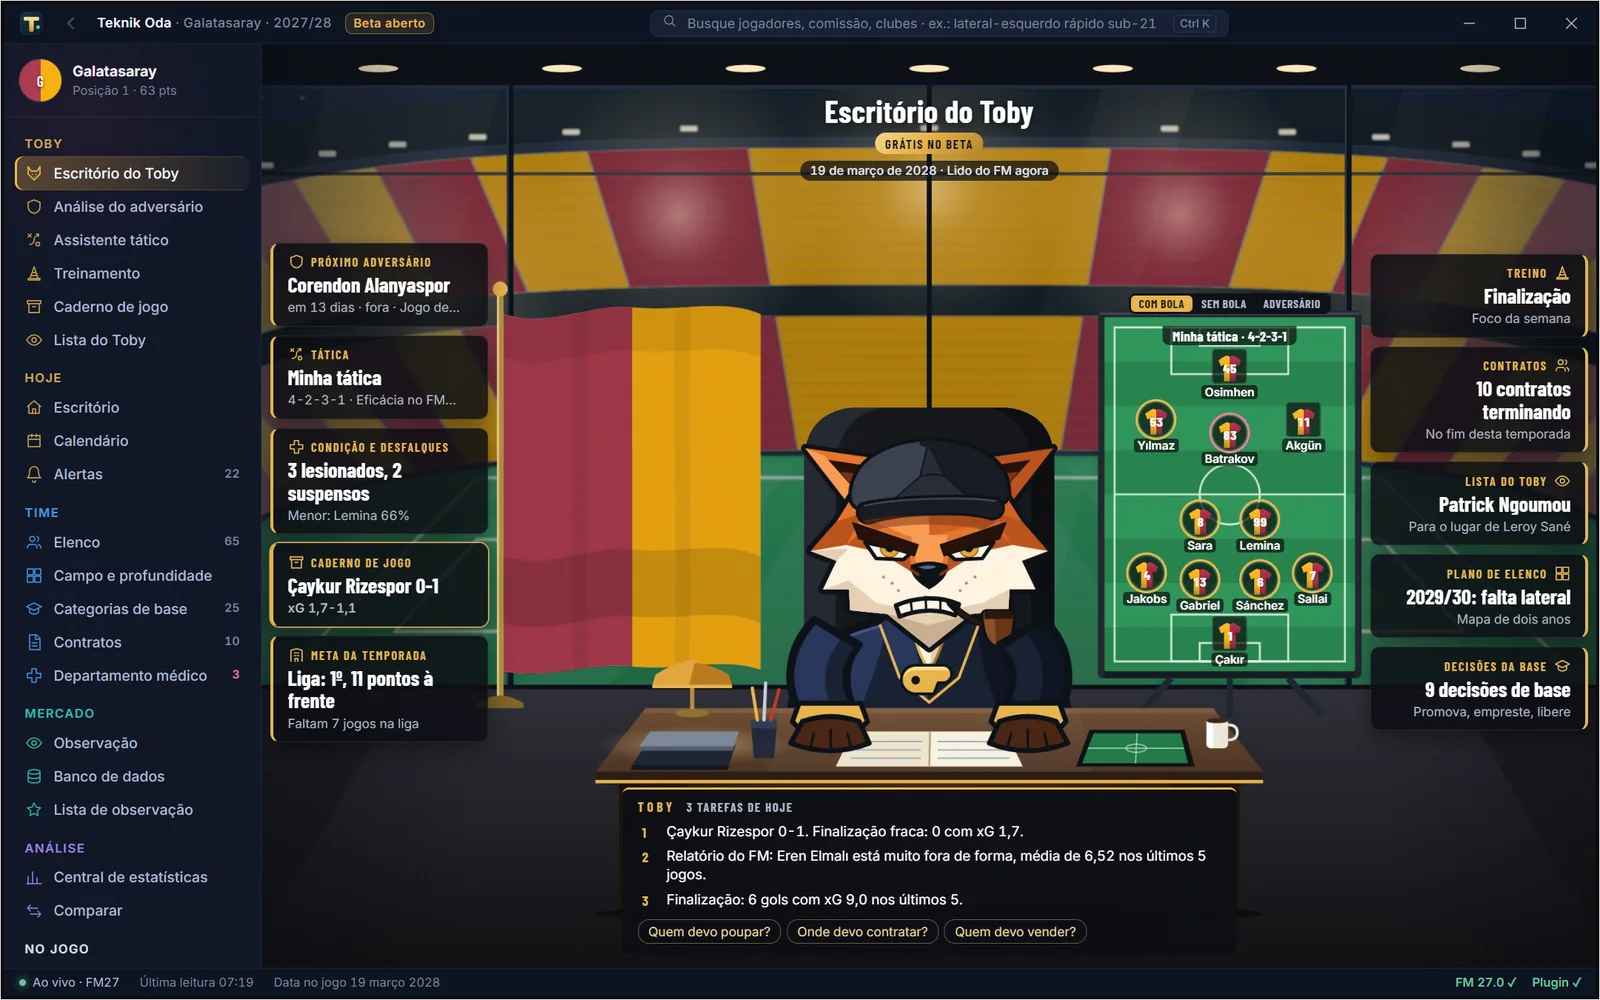
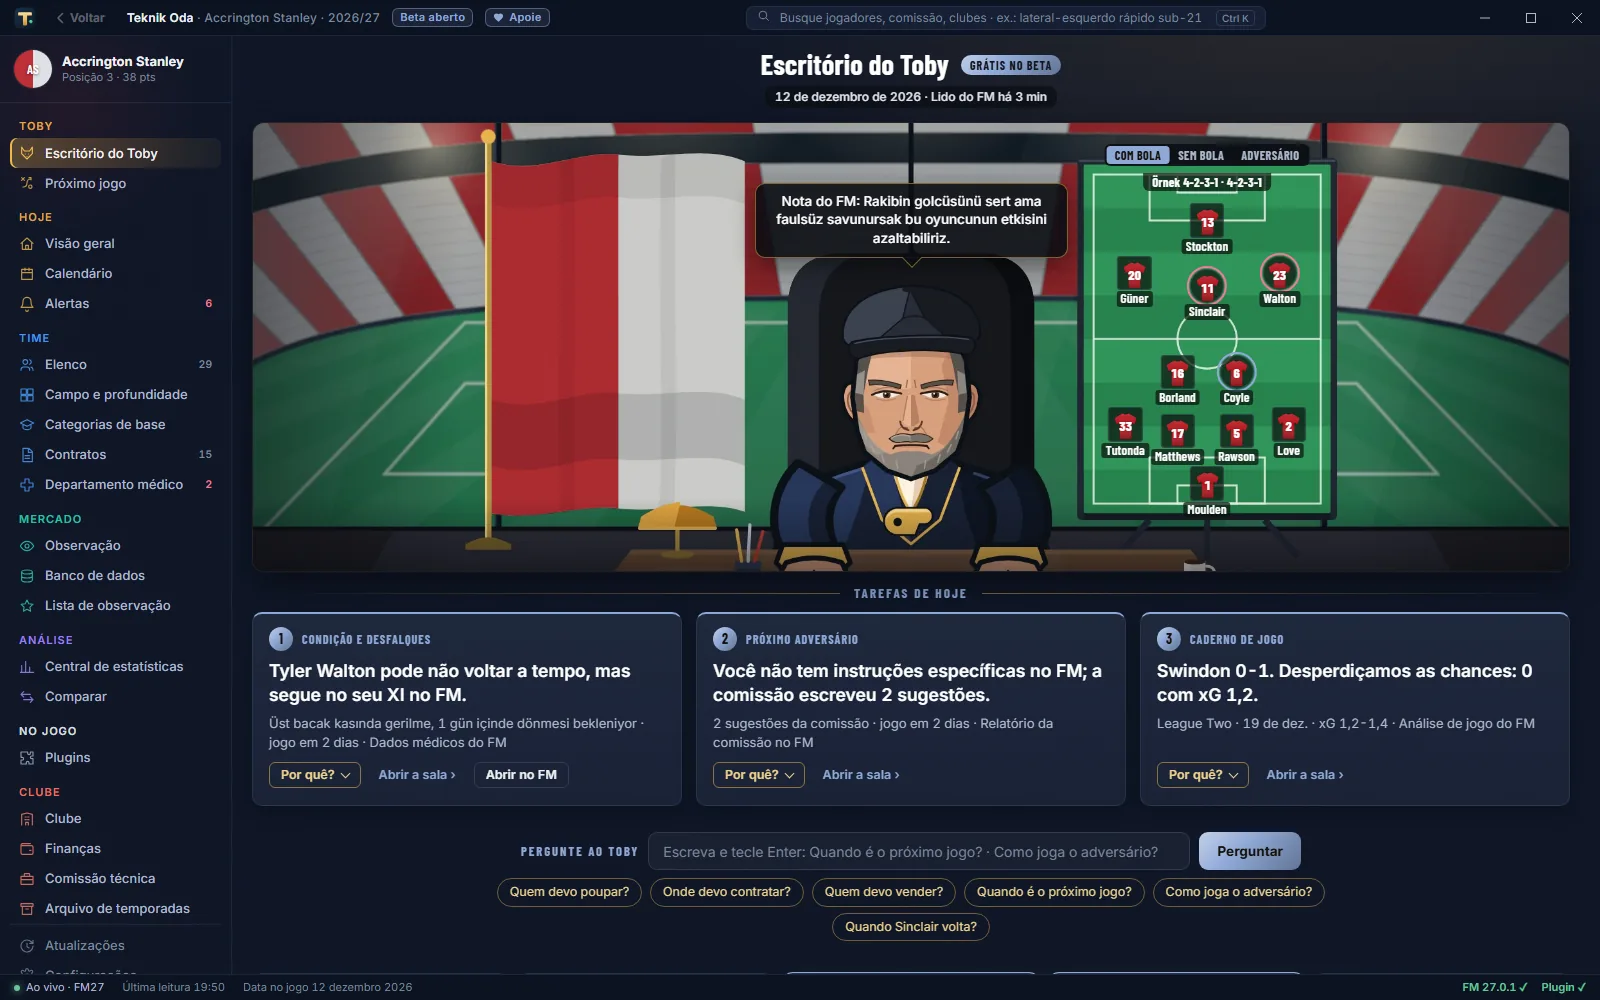
Site: 1.0.2 gorselleri (insan Toby, yeni ekranlar, paylasim onizlemesi)

diff --git a/index.html b/index.html
@@ -168,9 +168,9 @@ footer p{flex-basis:100%;font-size:13px}
   <p class="alt"><span lang-tr>Teknik Oda kariyerini canlı okur. Kimi satmamalısın, kimi almalısın, hangi sözleşme riskli; kararı verirken yanında söyler.</span><span lang-en>Teknik Oda reads your career live. Who not to sell, who to sign, which contract is a risk: it tells you at the moment you decide.</span><span lang-pt>O Teknik Oda lê sua carreira ao vivo. Quem não vender, quem contratar, qual contrato é um risco: ele avisa na hora em que você decide.</span></p>
   <div class="dugmeler"><a class="dug" href="#indir"><span lang-tr>İndir</span><span lang-en>Download</span><span lang-pt>Baixar</span></a><a class="dug ikinci" href="#fragman"><span lang-tr>Fragmanı izle</span><span lang-en>Watch the trailer</span><span lang-pt>Ver o trailer</span></a></div>
   <div class="sahne">
-    <img class="ana" src="img/ofis-1600.webp" srcset="img/ofis-960.webp 960w, img/ofis-1600.webp 1600w" sizes="(max-width:1240px) 100vw, 1180px" width="1600" height="1000" alt="Teknik Oda Ofis ekranı: sıradaki maç, lig yarışı ve bekleyen kararlar" fetchpriority="high">
+    <img class="ana" src="img/ofis-1600.webp" srcset="img/ofis-960.webp 960w, img/ofis-1600.webp 1600w" sizes="(max-width:1240px) 100vw, 1180px" width="1600" height="1000" alt="Teknik Oda Genel bakış ekranı: sıradaki maç, lig yarışı ve bekleyen kararlar" fetchpriority="high">
     <img class="yuzen dugme" src="img/fm-dugmeler.png" width="412" height="52" alt="FM oyuncu profilindeki Teknik Oda düğmeleri">
-    <img class="yuzen kart" src="img/gorus-karti.png" width="476" height="358" alt="FM içindeki Teknik Oda görüşü kartı: Satma. Takımın önemli oyuncusu. Yerine biri alınmadan satılması önerilmez.">
+    <img class="yuzen kart" src="img/toby-kart-tr.png" width="543" height="453" alt="FM'in içinde Toby'nin analizi: Pape Matar Sarr için Teklif yap, senin taktiğindeki rolleri ve yıldızları">
   </div>
 </div></header>
 
@@ -219,7 +219,7 @@ footer p{flex-basis:100%;font-size:13px}
   </div>
   <div class="sekmeler" role="tablist" id="sekmeler"></div>
   <div class="vitrin" id="vitrin">
-    <figure data-ad-tr="Ofis" data-ad-en="Office" data-ad-pt="Escritório"><figcaption><b lang-tr>Her gün buradan başla</b><b lang-en>Start every day here</b><b lang-pt>Comece todo dia aqui</b><span lang-tr>Sıradaki maç, lig yarışı, eksikler ve seni bekleyen kararlar.</span><span lang-en>Next match, league race, absentees and the decisions waiting for you.</span><span lang-pt>Próximo jogo, disputa da liga, desfalques e as decisões que esperam por você.</span></figcaption><div class="kap"><img loading="lazy" src="img/ofis-1600.webp" srcset="img/ofis-960.webp 960w, img/ofis-1600.webp 1600w" sizes="(max-width:760px) 720px, (max-width:1240px) 100vw, 1180px" width="1600" height="1000" alt="Ofis ekranı"></div></figure>
+    <figure data-ad-tr="Genel bakış" data-ad-en="Overview" data-ad-pt="Visão geral"><figcaption><b lang-tr>Her gün buradan başla</b><b lang-en>Start every day here</b><b lang-pt>Comece todo dia aqui</b><span lang-tr>Sıradaki maç, lig yarışı, eksikler ve seni bekleyen kararlar.</span><span lang-en>Next match, league race, absentees and the decisions waiting for you.</span><span lang-pt>Próximo jogo, disputa da liga, desfalques e as decisões que esperam por você.</span></figcaption><div class="kap"><img loading="lazy" src="img/ofis-1600.webp" srcset="img/ofis-960.webp 960w, img/ofis-1600.webp 1600w" sizes="(max-width:760px) 720px, (max-width:1240px) 100vw, 1180px" width="1600" height="1000" alt="Genel bakış ekranı"></div></figure>
     <figure data-ad-tr="Kadro" data-ad-en="Squad" data-ad-pt="Elenco"><figcaption><b lang-tr>Bütün kadro tek bakışta</b><b lang-en>Your whole squad at a glance</b><b lang-pt>Seu elenco inteiro num olhar</b><span lang-tr>Rol yıldızları doğrudan oyundan gelir. Form, lig yüzdeliği ve sözleşme aynı tabloda.</span><span lang-en>Role stars come straight from the game. Form, league percentile and contract in one table.</span><span lang-pt>As estrelas de função vêm direto do jogo. Forma, percentil na liga e contrato numa tabela.</span></figcaption><div class="kap"><img loading="lazy" src="img/kadro-1600.webp" srcset="img/kadro-960.webp 960w, img/kadro-1600.webp 1600w" sizes="(max-width:760px) 720px, (max-width:1240px) 100vw, 1180px" width="1600" height="1000" alt="Kadro ekranı"></div></figure>
     <figure data-ad-tr="Oyuncu" data-ad-en="Player" data-ad-pt="Jogador"><figcaption><b lang-tr>Oyuncunun bütün hikâyesi</b><b lang-en>The whole story of a player</b><b lang-pt>A história completa de um jogador</b><span lang-tr>Roller, nitelikler, gelişim, kariyer ve Teknik Oda kararı.</span><span lang-en>Roles, attributes, development, career and Teknik Oda's verdict.</span><span lang-pt>Funções, atributos, desenvolvimento, carreira e o veredito do Teknik Oda.</span></figcaption><div class="kap"><img loading="lazy" src="img/profil-1600.webp" srcset="img/profil-960.webp 960w, img/profil-1600.webp 1600w" sizes="(max-width:760px) 720px, (max-width:1240px) 100vw, 1180px" width="1600" height="1000" alt="Oyuncu profili ekranı"></div></figure>
     <figure data-ad-tr="Gözlem" data-ad-en="Scouting" data-ad-pt="Observação"><figcaption><b lang-tr>Kadrona uyan oyuncu</b><b lang-en>Players who fit your squad</b><b lang-pt>Jogadores que encaixam no seu elenco</b><span lang-tr>Öneriler kadro ihtiyacına ve bütçene göre sıralanır, neden önerildiği yazılır.</span><span lang-en>Suggestions are ranked by squad need and budget, with the reason written out.</span><span lang-pt>As sugestões são ordenadas pela necessidade do elenco e pelo orçamento, com o motivo escrito.</span></figcaption><div class="kap"><img loading="lazy" src="img/gozlem-1600.webp" srcset="img/gozlem-960.webp 960w, img/gozlem-1600.webp 1600w" sizes="(max-width:760px) 720px, (max-width:1240px) 100vw, 1180px" width="1600" height="1000" alt="Gözlem ekranı"></div></figure>
@@ -283,11 +283,11 @@ footer p{flex-basis:100%;font-size:13px}
     <div class="etiket"><span lang-tr>Yeni: Toby</span><span lang-en>New: Toby</span><span lang-pt>Novo: Toby</span></div>
     <h2><span lang-tr>Maçı okuyan antrenör.</span><span lang-en>The coach who reads the match.</span><span lang-pt>O treinador que lê o jogo.</span></h2>
     <p class="alt" style="margin-top:16px"><span lang-tr>Toby FM'in kendi verisinden konuşur: şut haritası, hareket bölgeleri, oyuncu sayıları ve FM'de seçili taktiğin. Her sözünde sayı var, önemsizde susar.</span><span lang-en>Toby speaks from FM's own data: the shot map, action zones, player numbers and the tactic you have selected in FM. Every note has its numbers, and he stays quiet when it doesn't matter.</span><span lang-pt>O Toby fala com os dados do próprio FM: mapa de finalizações, zonas de ação, números dos jogadores e a tática selecionada no FM. Cada nota traz os números, e ele fica quieto quando não importa.</span></p>
-    <img lang-tr class="toby-gorsel" src="img/toby-ofis-tr-1600.webp" srcset="img/toby-ofis-tr-960.webp 960w, img/toby-ofis-tr-1600.webp 1600w" sizes="(max-width:1240px) 100vw, 1180px" width="1600" height="1000" alt="Toby'nin Ofisi: masada Toby, iki yanda açılır rapor kartları, tahtada FM'deki taktik, önünde bugünün üç işi" loading="lazy">
-    <img lang-en class="toby-gorsel" src="img/toby-ofis-en-1600.webp" srcset="img/toby-ofis-en-960.webp 960w, img/toby-ofis-en-1600.webp 1600w" sizes="(max-width:1240px) 100vw, 1180px" width="1600" height="1000" alt="Toby's Office: Toby at his desk, report cards on both sides, your FM tactic on the board, today's three jobs in front" loading="lazy">
-    <img lang-pt class="toby-gorsel" src="img/toby-ofis-pt-1600.webp" srcset="img/toby-ofis-pt-960.webp 960w, img/toby-ofis-pt-1600.webp 1600w" sizes="(max-width:1240px) 100vw, 1180px" width="1600" height="1000" alt="Escritório do Toby: Toby à mesa, cartões de relatório dos dois lados, sua tática do FM no quadro, as três tarefas de hoje à frente" loading="lazy">
+    <img lang-tr class="toby-gorsel" src="img/toby-ofis-tr-1600.webp" srcset="img/toby-ofis-tr-960.webp 960w, img/toby-ofis-tr-1600.webp 1600w" sizes="(max-width:1240px) 100vw, 1180px" width="1600" height="1000" alt="Toby'nin Ofisi: masada Toby, tahtada FM'deki taktik, altında bugünün üç işi ve Toby'ye sor kutusu" loading="lazy">
+    <img lang-en class="toby-gorsel" src="img/toby-ofis-en-1600.webp" srcset="img/toby-ofis-en-960.webp 960w, img/toby-ofis-en-1600.webp 1600w" sizes="(max-width:1240px) 100vw, 1180px" width="1600" height="1000" alt="Toby's Office: Toby at his desk, your FM tactic on the board, today's three jobs and the Ask Toby box below" loading="lazy">
+    <img lang-pt class="toby-gorsel" src="img/toby-ofis-pt-1600.webp" srcset="img/toby-ofis-pt-960.webp 960w, img/toby-ofis-pt-1600.webp 1600w" sizes="(max-width:1240px) 100vw, 1180px" width="1600" height="1000" alt="Escritório do Toby: Toby à mesa, sua tática do FM no quadro, as três tarefas de hoje e a caixa Perguntar ao Toby abaixo" loading="lazy">
     <ul class="liste">
-      <li><span lang-tr><b>Toby'nin Ofisi:</b> tek sayfa. Kartı tıkla, rapor aşağı açılsın: rakip, taktik, kondisyon, maç defteri, sezon hedefi, antrenman, sözleşme, transfer, kadro planı, gençler. Her cümlenin altında kaynağı yazar. Beta boyunca ücretsiz, sonra ücretli olacak.</span><span lang-en><b>Toby's Office:</b> one page. Click a card and the report drops down: opponent, tactic, fitness, match notebook, season target, training, contracts, transfers, squad plan, youth. Every section names its source. Free during beta, paid afterwards.</span><span lang-pt><b>Escritório do Toby:</b> uma página só. Clique no cartão e o relatório abre: adversário, tática, condição, caderno de jogo, meta da temporada, treino, contratos, transferências, plano de elenco, base. Cada seção cita a fonte. Grátis durante o beta, pago depois.</span></li>
+      <li><span lang-tr><b>Toby'nin Ofisi:</b> her kart Toby'nin bir odasına açılır, Toby tahtanın başında anlatır: önümüzdeki maç, maç defteri, sezon hedefi, antrenman, sözleşme, transfer, kadro planı, gençler. Her cümlenin altında kaynağı yazar. Beta boyunca ücretsiz, sonra ücretli olacak.</span><span lang-en><b>Toby's Office:</b> every card opens one of Toby's rooms, and Toby explains it at the board: next match, match notebook, season target, training, contracts, transfers, squad plan, youth. Every section names its source. Free during beta, paid afterwards.</span><span lang-pt><b>Escritório do Toby:</b> cada cartão abre uma sala do Toby, e ele explica no quadro: próximo jogo, caderno de jogo, meta da temporada, treino, contratos, transferências, plano de elenco, base. Cada seção cita a fonte. Grátis durante o beta, pago depois.</span></li>
       <li><span lang-tr><b>Counter:</b> rakibin FM'deki ayarı ve iki kadronun nitelikleri yan yana. Kanıtı sayıyla söyler, FM'de hangi ayarın değişeceğini adıyla yazar, sen zaten öyle yaptıysan susar.</span><span lang-en><b>Counter:</b> the opponent's FM settings and both squads' attributes side by side. It shows the evidence in numbers, names the FM setting to change, and stays quiet if you already did.</span><span lang-pt><b>Contra-tática:</b> os ajustes do adversário no FM e os atributos dos dois elencos lado a lado. Mostra a prova em números, diz qual ajuste mudar no FM e fica quieto se você já fez.</span></li>
       <li><span lang-tr><b>Lig xG tablosu:</b> FM'in hesabıyla hak ettiğin puan ve gerçek puanın. Yönetim ve taraftarın görüşü, FM gözlemcilerinin önerdiği oyuncular aynı sayfada.</span><span lang-en><b>League xG table:</b> the points you deserve by FM's own numbers against your real total. The board's and fans' view and your FM scouts' recommendations on the same page.</span><span lang-pt><b>Tabela de xG da liga:</b> os pontos que você merece pelos números do FM contra o total real. A visão da diretoria e da torcida e as recomendações dos olheiros na mesma página.</span></li>
       <li><span lang-tr><b>Toby'ye sor:</b> oyuncu profilindeki düğmeye bas; senin taktiğinde hangi rolde kaç yıldız, ilk 11'indeki oyuncudan iyi mi, hangi rolde daha verimli.</span><span lang-en><b>Ask Toby:</b> press the button on a player's profile: how many stars in which role of your tactic, whether he beats your starter, which role suits him better.</span><span lang-pt><b>Perguntar ao Toby:</b> aperte o botão no perfil do jogador: quantas estrelas em qual função da sua tática, se é melhor que o seu titular, em qual função rende mais.</span></li>
